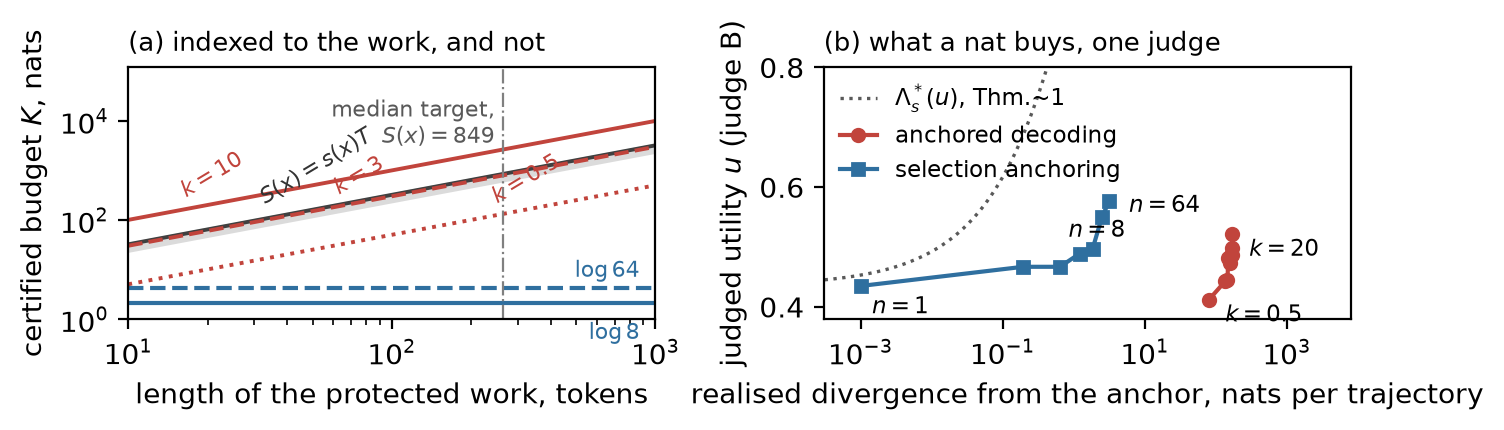
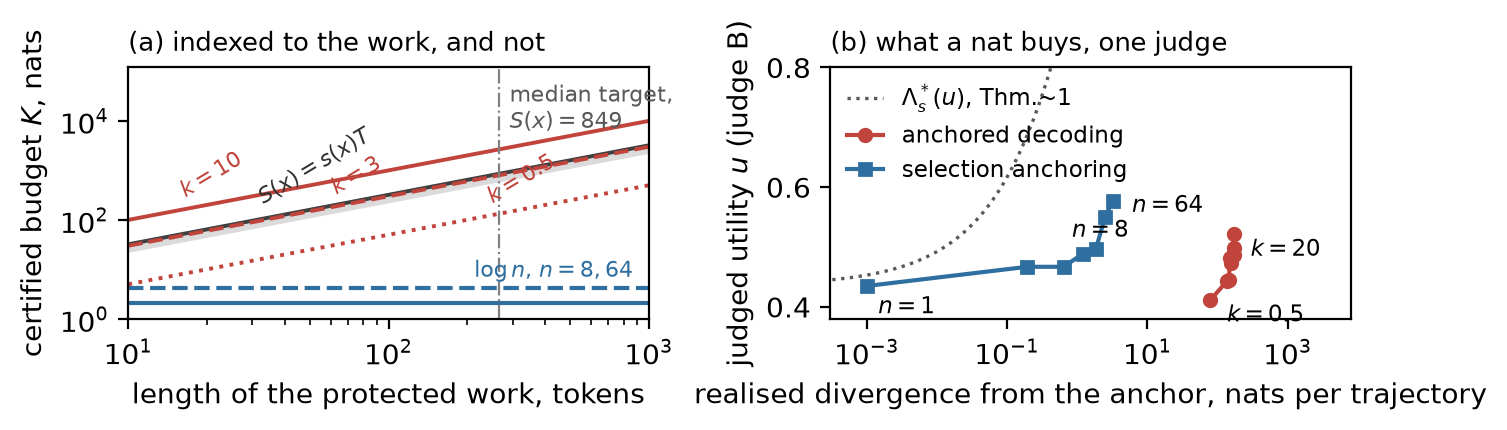
Figure 1(a): two label collisions found by rendering the page and looking
log 8 and log 64 are a factor of two apart on an axis spanning five decades, so
one label each collided and the lower one landed on the x-axis tick row. Two
lines now carry one label. The 'median target, S(x)=849' note sat on top of the
S(x)=s(x)T ray's own label in the top left; it moves to the empty top right of
the rule. Also a raw-string fix for an escape-sequence warning in the same file.

No compile-time check sees any of this -- overfull is 0 either way -- which is
the whole reason the habit is to render the page to PNG and look at it.

diff --git a/figures/make_figures_v4.py b/figures/make_figures_v4.py
@@ -302,14 +302,16 @@ def selection_frontier():
                      color="#c1443c", rotation=31, rotation_mode="anchor",
                      xytext=(0, 4), textcoords="offset points")
     import math as _m
+    # log 8 and log 64 are a factor of two apart on an axis spanning five decades, so one label
+    # each collided and the lower one landed on the x-axis. Two lines, one label.
     for n, style in ((64, "--"), (8, "-")):
         axL.axhline(_m.log(n), color="#2f6f9f", lw=1.5, ls=style)
-        axL.annotate(f"$\\log {n}$", (T[97], _m.log(n)), fontsize=6.3 * F, ha="right",
-                     color="#2f6f9f", xytext=(0, 4 if n == 64 else -13),
-                     textcoords="offset points")
+    axL.annotate("$\\log n$, $n=8,64$", (T[97], _m.log(64)), fontsize=6.3 * F, ha="right",
+                 color="#2f6f9f", xytext=(0, 4), textcoords="offset points")
     axL.axvline(t_star, color="0.5", lw=0.8, ls="-.")
-    axL.annotate(f"median target,\n$S(x)={s_tot:.0f}$", (t_star, 3.0e4), fontsize=6.3 * F,
-                 color="0.35", ha="right", va="top", xytext=(-3, 0), textcoords="offset points")
+    # to the RIGHT of the rule: the top-left is where the $S(x)$ ray's own label sits.
+    axL.annotate(f"median target,\n$S(x)={s_tot:.0f}$", (t_star, 6.0e4), fontsize=6.3 * F,
+                 color="0.35", ha="left", va="top", xytext=(4, 0), textcoords="offset points")
     axL.set_xscale("log"); axL.set_yscale("log")
     axL.set_xlim(10, 1000); axL.set_ylim(1.0, 1.2e5)
     axL.set_xlabel("length of the protected work, tokens")
@@ -472,7 +474,7 @@ def order_no_collapse():
                     color=f"C{i}", label=pair if o == orders[0] else None)
         ax.axhline(0.0, color="0.4", lw=0.7, ls=":")
         ax.set_title(rf"$\alpha = {o:.0f}$")
-    axes[0].set_ylabel("$\log_{10}$ times safer, matched utility")
+    axes[0].set_ylabel(r"$\log_{10}$ times safer, matched utility")
     axes[0].legend(loc="lower left", frameon=False, ncol=1)
     fig.supxlabel("$F$, the fraction of the unconstrained ceiling the audited decoder already has",
                   fontsize=8, y=0.01)
